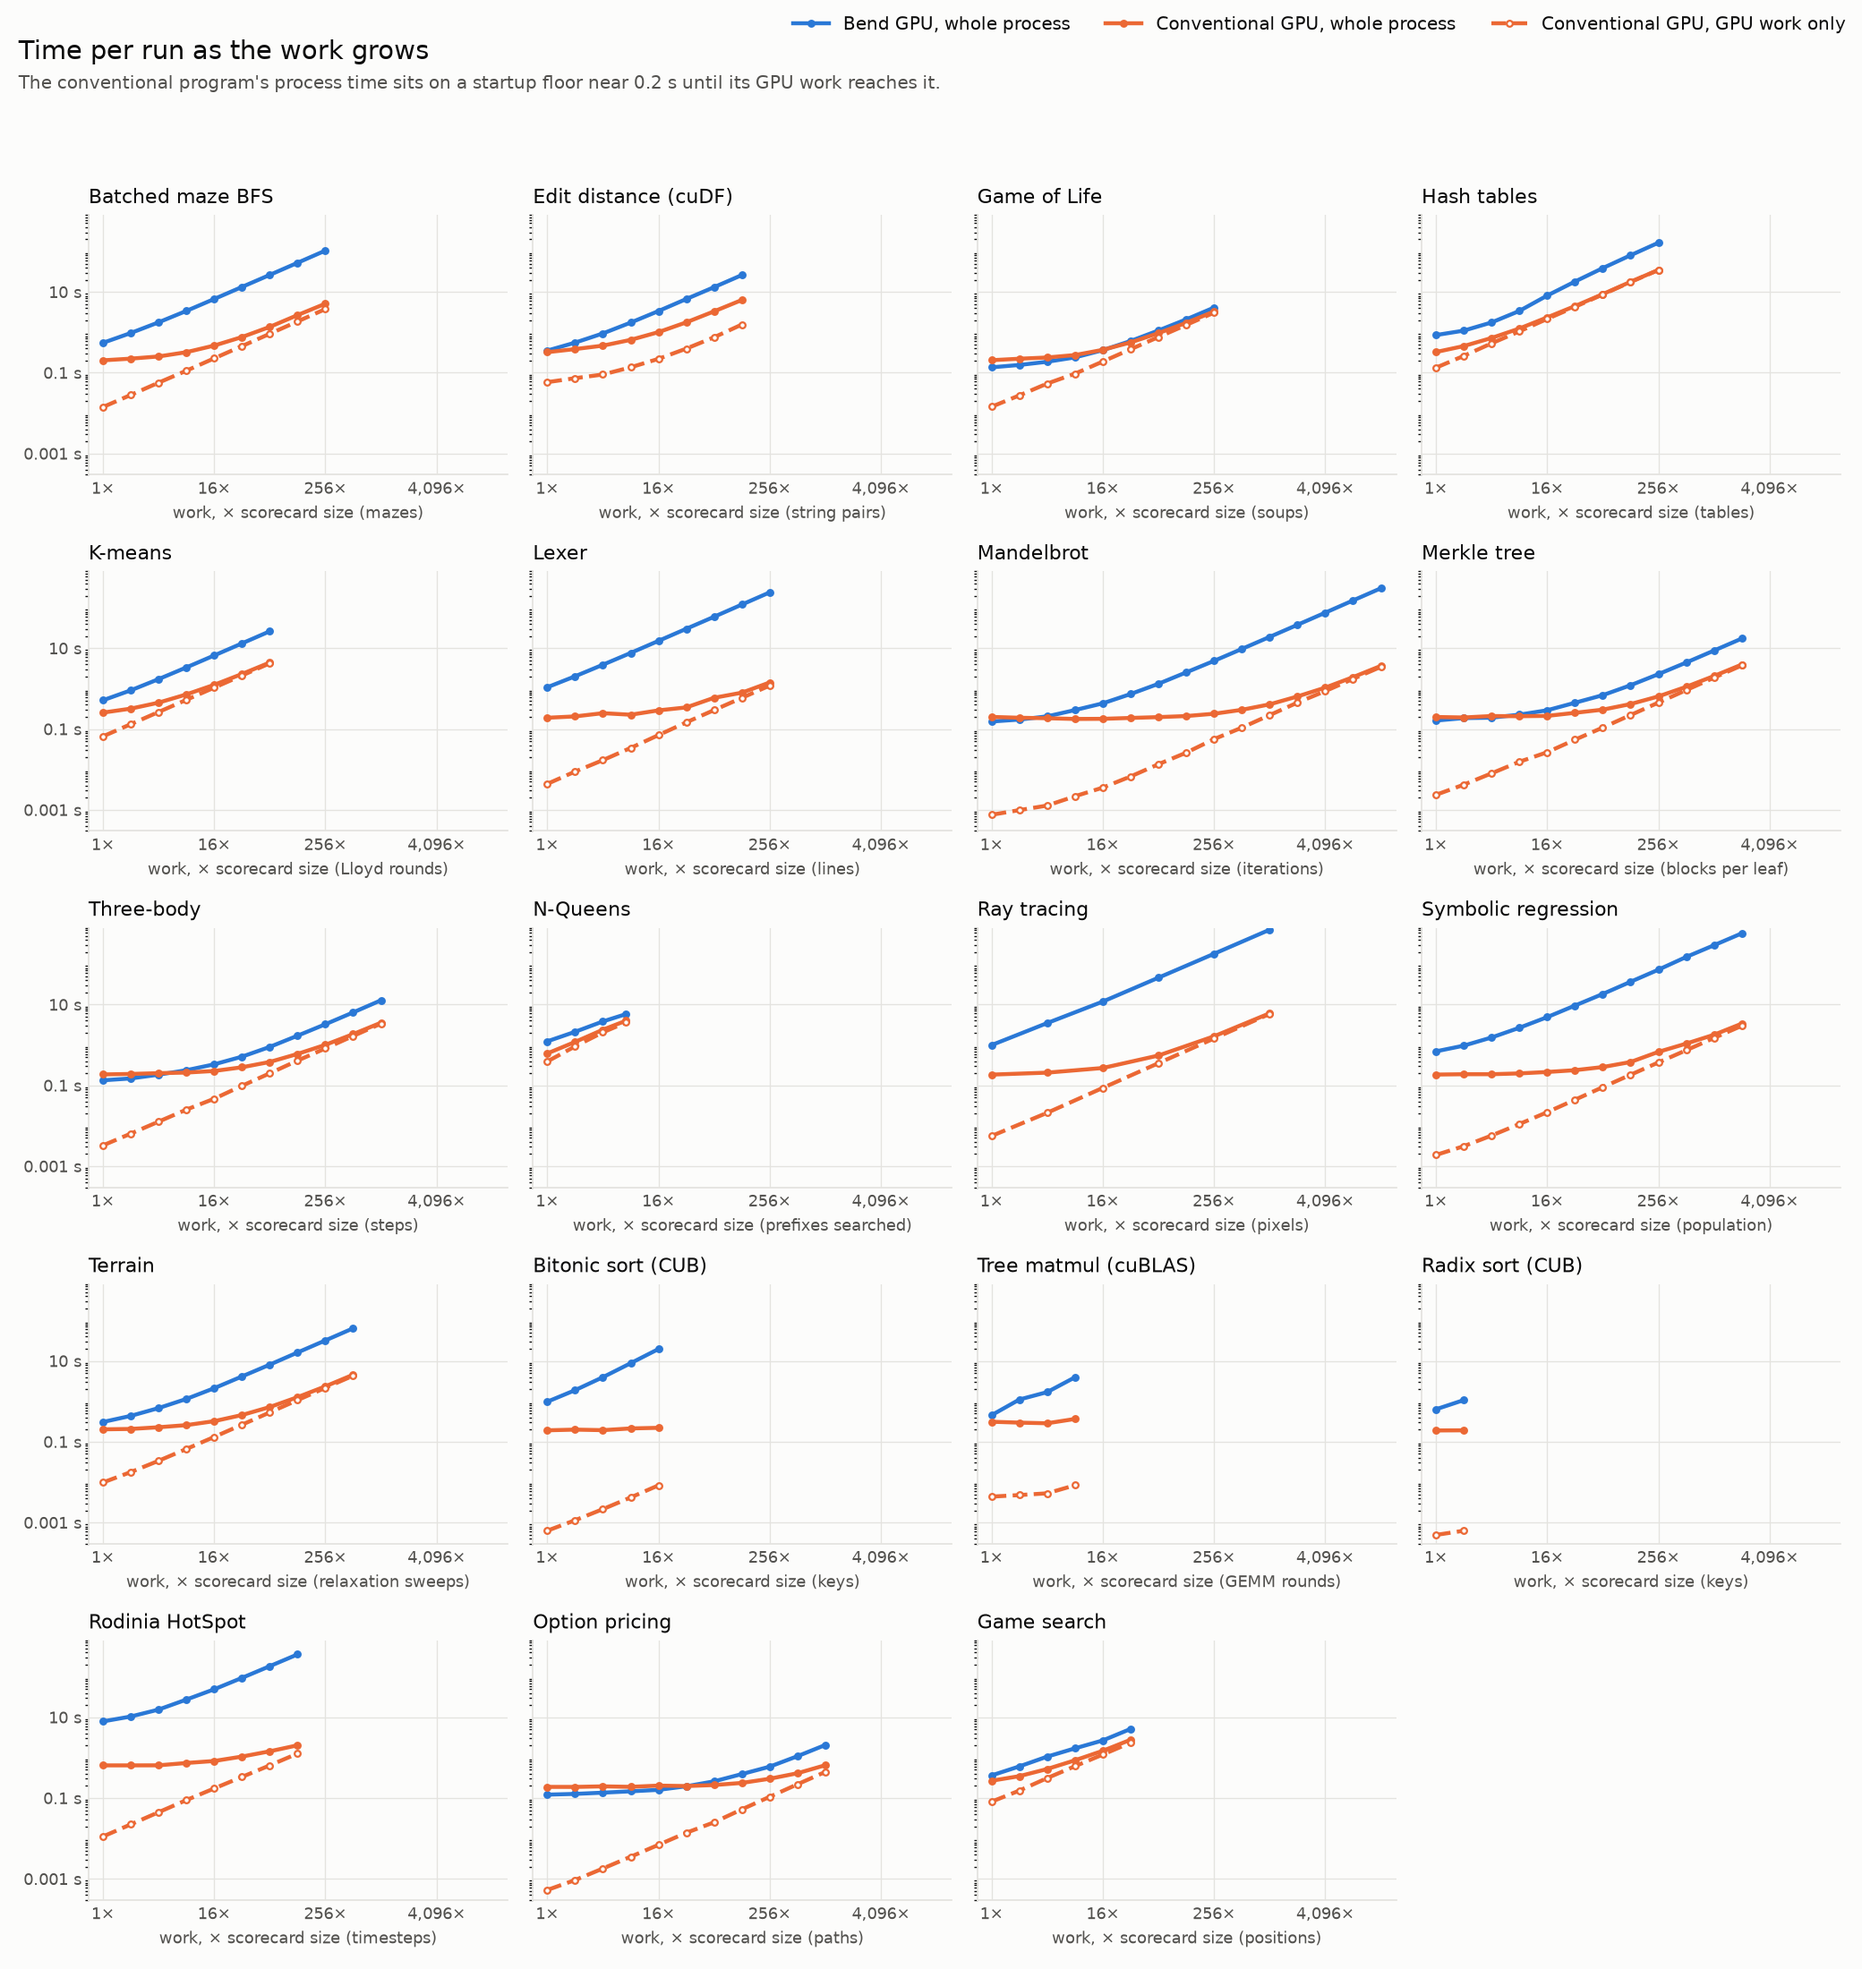
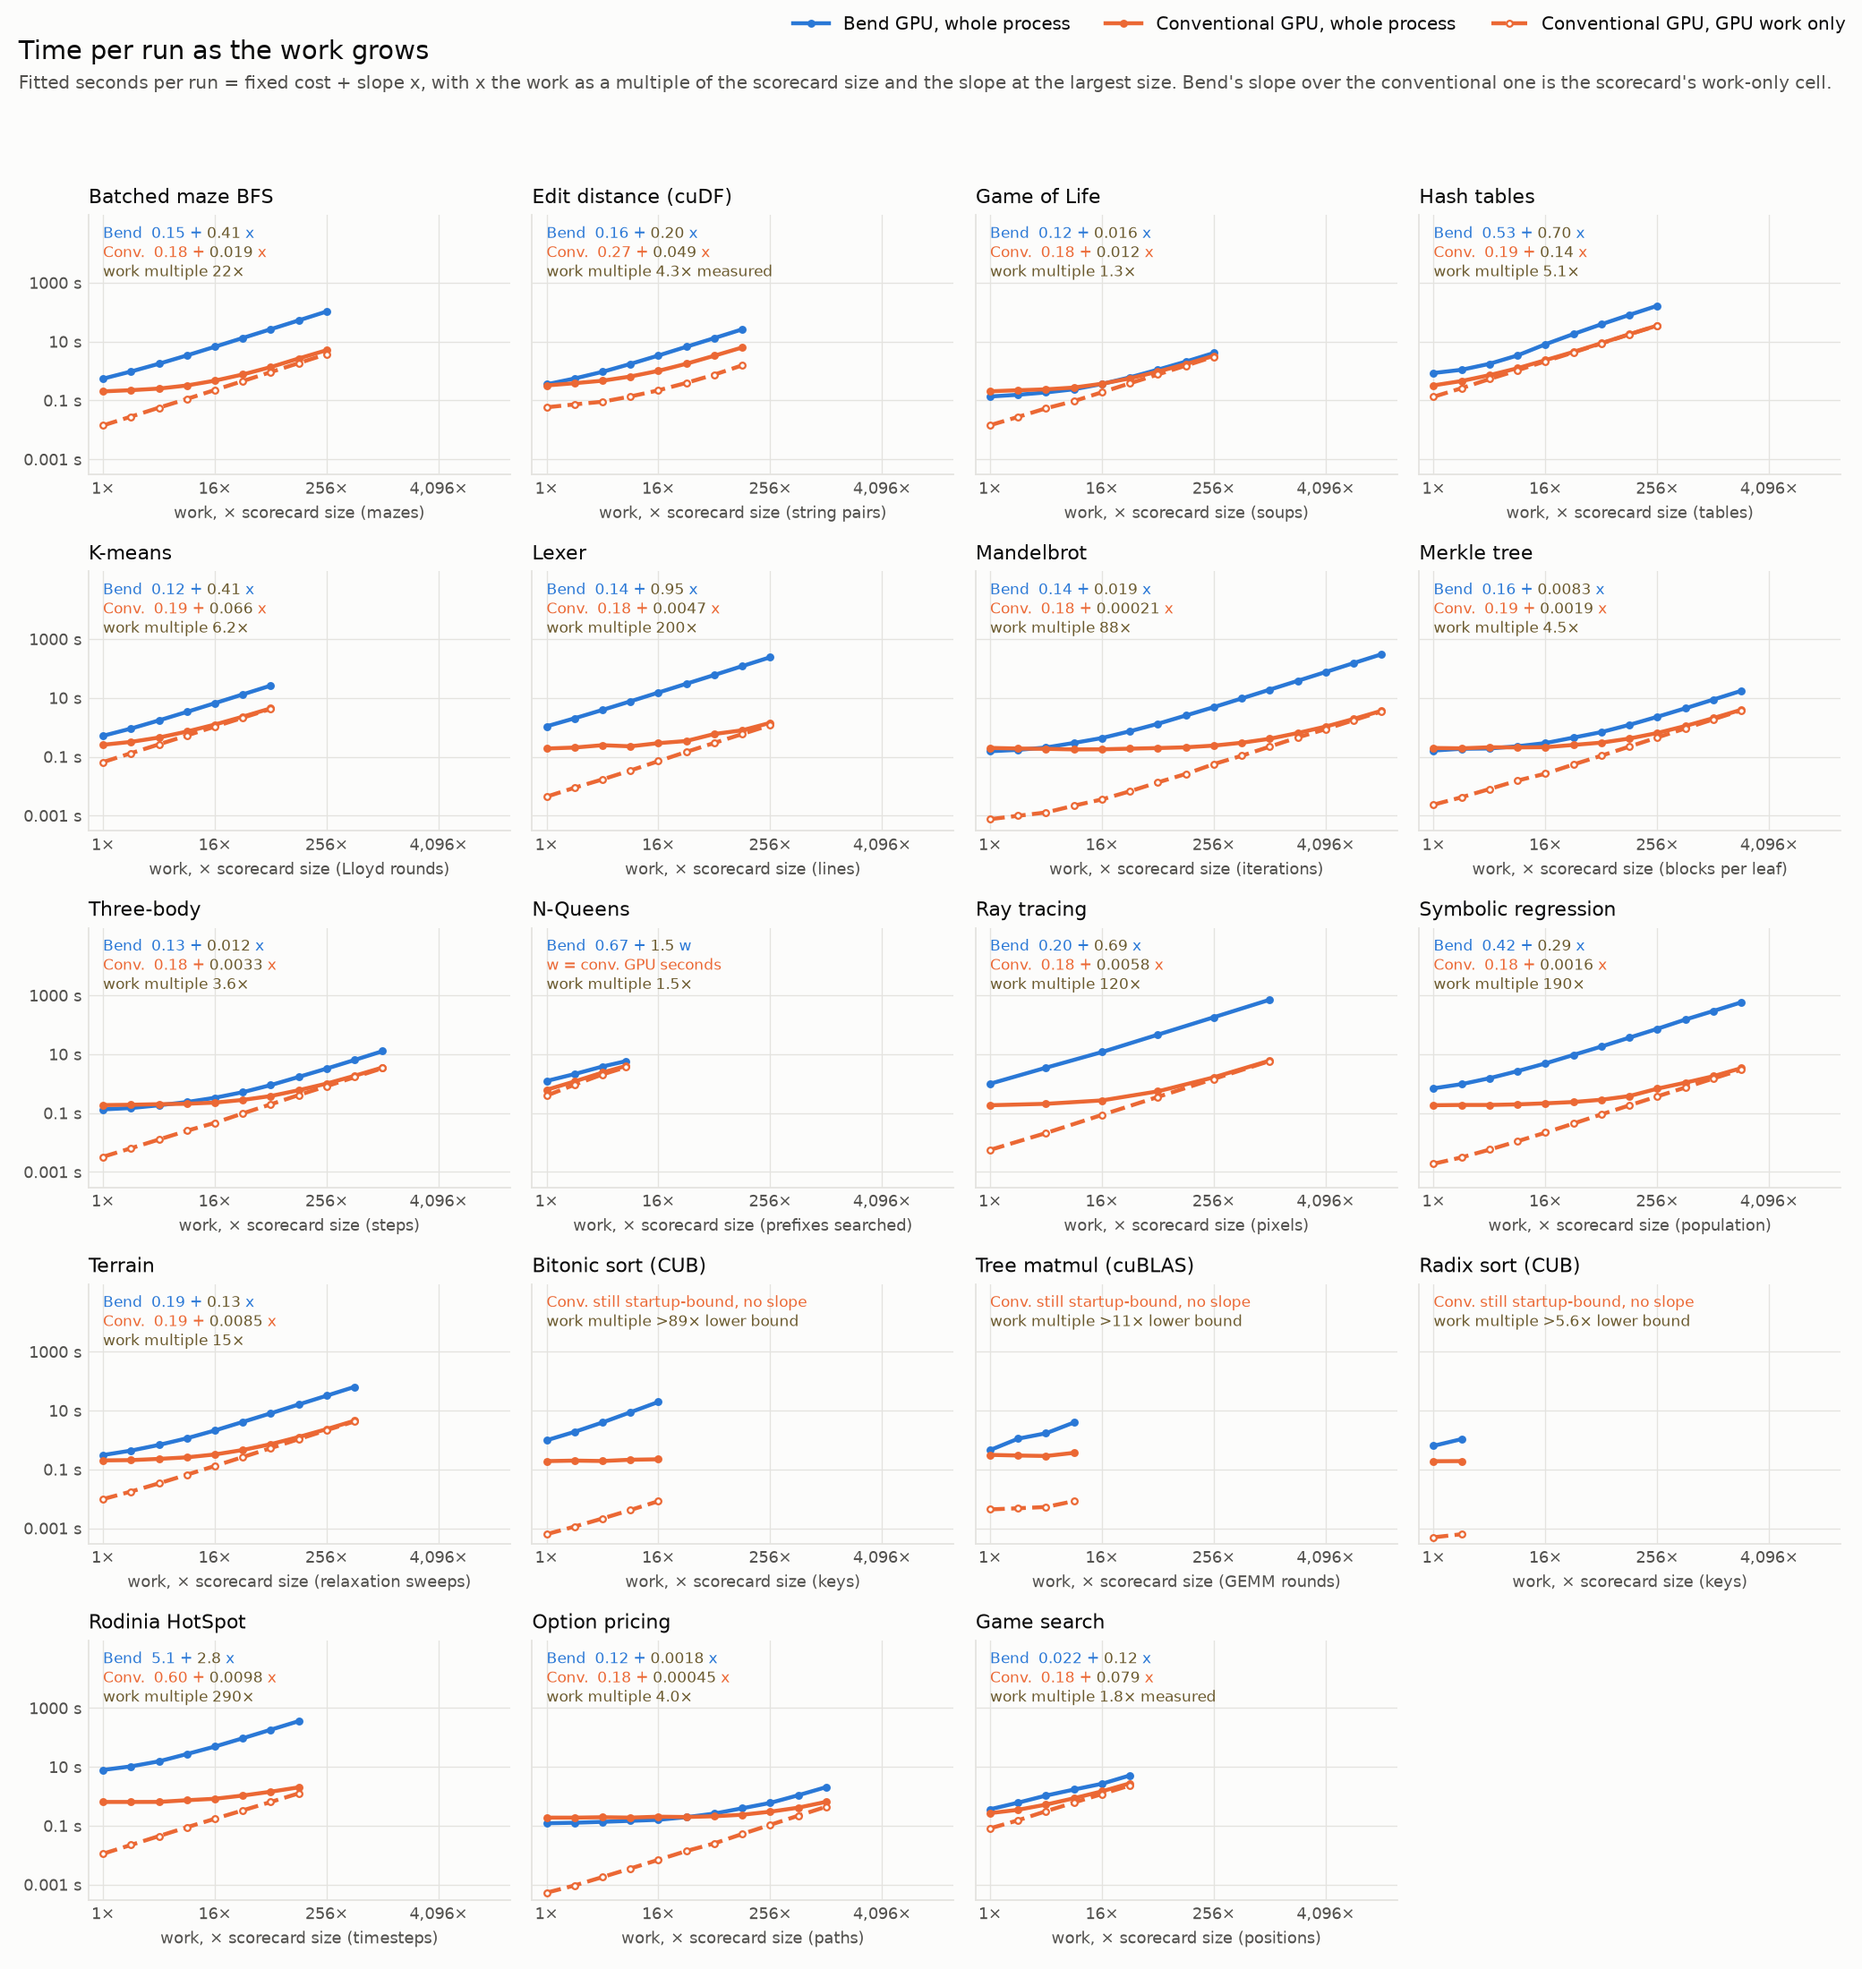
Show each program's fitted time on the times chart
Each panel of times.png lists Bend's and the conventional program's fitted
seconds per run as fixed cost + slope x, with the slope at the largest size
in the scorecard's work-only color, then the scorecard's work-only value
("work multiple"). N-Queens shows its fit against the conventional
program's GPU seconds w, since it grows along two knobs; the library panels
say the conventional program is still startup-bound, so their value is a
lower bound. Panels gain headroom for the labels. No values change.

diff --git a/scaling_charts.py b/scaling_charts.py
@@ -9,6 +9,7 @@ import sys
 import matplotlib
 matplotlib.use('Agg')
 import matplotlib.pyplot as plt  # noqa: E402
+from matplotlib.offsetbox import AnchoredOffsetbox, HPacker, TextArea, VPacker  # noqa: E402
 from matplotlib.ticker import FuncFormatter, NullFormatter  # noqa: E402
 
 import scaling_fit  # noqa: E402
@@ -20,6 +21,7 @@ OUT = Path(sys.argv[1]) if len(sys.argv) > 1 else ROOT / 'benchmarks/startup-sca
 # series share its hue (solid: whole process, dashed: GPU work only).
 SURFACE, INK, INK2, GRID, REF = '#fcfcfb', '#0b0b0b', '#52514e', '#e4e3df', '#8a8984'
 BLUE, ORANGE = '#2a78d6', '#eb6834'
+WORK = '#6b5a2e'  # the scorecard's GPU work-only column
 
 # Scorecard order; title and knob per workload. Bend's 4 GB heap caps the library comparisons.
 WORKLOADS = [
@@ -141,7 +143,40 @@ def share_chart(data, path):
     plt.close(fig)
 
 
-def times_chart(data, path):
+def figures(value):
+    """Two significant figures, without exponent notation."""
+    return f"{float(f'{value:.2g}'):.{max(0, 1 - math.floor(math.log10(abs(value))))}f}"
+
+
+def formula(ax, lines, cell):
+    """Each program's fitted time as fixed cost + slope times the work (the slope, whose ratio is the
+    work-only column, in the column's color), notes where a panel has no slope, then the scorecard cell."""
+    small = lambda text, color: TextArea(text, textprops=dict(color=color, fontsize=7.5))
+    rows = []
+    for line in lines:
+        if len(line) == 2:  # a note
+            rows.append(small(*line))
+            continue
+        label, color, fixed, slope, var = line
+        rows.append(HPacker(children=[small(f'{label}  {figures(fixed)} + ', color), small(figures(slope), WORK),
+                                      small(f' {var}', color)], pad=0, sep=0))
+    rows.append(small(f'work multiple {cell}', WORK))
+    box = AnchoredOffsetbox(loc='upper left', child=VPacker(children=rows, pad=0, sep=2), pad=0.3, frameon=False,
+                            bbox_to_anchor=(0.02, 0.98), bbox_transform=ax.transAxes, borderpad=0)
+    ax.add_artist(box)
+
+
+def fitted(name, ps):
+    """Fixed cost (a + b*x^c) and slope at the largest size (general curve) for Bend and the conventional program."""
+    work = dict((n, w) for n, _, w in scaling_fit.WORKLOADS).get(name) or (lambda k: k)
+    x = [work(p['multiplier']) for p in ps]
+    out = []
+    for times in ([p['bend_seconds'] for p in ps], scaling_fit.conventional_time(ps, work)):
+        out.append((scaling_fit.fit(x, times)[0], scaling_fit.curve(x, times)['marginal'](x[-1])))
+    return out
+
+
+def times_chart(data, labels, path):
     """All workloads: Bend and conventional process time with the conventional GPU work, on one scale."""
     fig, axes = panels()
     series = (('bend_seconds', 'Bend GPU, whole process', BLUE, '-'),
@@ -155,19 +190,22 @@ def times_chart(data, path):
             for key, label, color, dash in series:
                 ax.plot(xs, [p[key] for p in ps], color=color, linewidth=2, linestyle=dash, marker='o', markersize=3,
                         label=label, zorder=3, markerfacecolor=SURFACE if dash == '--' else color)
+            if name in labels:
+                formula(ax, *labels[name])
         else:
             ax.text(0.5, 0.5, 'pending', transform=ax.transAxes, ha='center', color=INK2, fontsize=9)
         axis_work(ax, knob)
         ax.set_yscale('log')
-        ax.set_ylim(3e-4, 800)
-        ax.set_yticks([0.001, 0.1, 10])
+        ax.set_ylim(3e-4, 2e5)
+        ax.set_yticks([0.001, 0.1, 10, 1000])
         ax.yaxis.set_major_formatter(FuncFormatter(lambda v, _: f'{v:g} s'))
         ax.yaxis.set_minor_formatter(NullFormatter())
         ax.set_title(title, fontsize=10, color=INK, loc='left')
     handles, labels = axes.flat[2].get_legend_handles_labels()
     fig.legend(handles, labels, loc='upper right', ncol=3, frameon=False, fontsize=9, labelcolor=INK)
     fig.suptitle('Time per run as the work grows', fontsize=13, color=INK, x=0.01, ha='left')
-    fig.text(0.01, 0.955, "The conventional program's process time sits on a startup floor near 0.2 s until its GPU work reaches it.",
+    fig.text(0.01, 0.955, "Fitted seconds per run = fixed cost + slope x, with x the work as a multiple of the scorecard size and the slope "
+             "at the largest size. Bend's slope over the conventional one is the scorecard's work-only cell.",
              fontsize=9, color=INK2)
     fig.tight_layout(rect=(0, 0, 1, 0.94))
     fig.savefig(path, dpi=160, facecolor=SURFACE)
@@ -179,9 +217,24 @@ def main():
     data = scaling_fit.points()
     rows = [scaling_fit.analyse(n, t, w, data[n]) for n, t, w in scaling_fit.WORKLOADS if n in data] + [scaling_fit.queens_row(data)]
     fits = {r['name']: r['K'] for r in rows if r}
+    # per panel: fitted lines, then the scorecard's work-only cell as work_only.py writes it
+    labels = {}
+    for n, _, _ in scaling_fit.WORKLOADS:
+        if n in data:
+            (ab, sb), (ac, sc) = fitted(n, data[n])
+            labels[n] = ([('Bend', BLUE, ab, sb, 'x'), ('Conv.', ORANGE, ac, sc, 'x')],
+                         scaling_fit.times(fits[n]) + (' measured' if n in scaling_fit.REPORTED else ''))
+    queens = scaling_fit.queens_row(data)
+    if queens:  # two knobs, so Bend is fitted against the conventional program's GPU seconds w
+        labels['queens'] = ([('Bend', BLUE, queens['a_bend'], queens['K'], 'w'), ('w = conv. GPU seconds', ORANGE)],
+                            scaling_fit.times(queens['K']))
+    for n, _ in scaling_fit.LOWER_BOUND:
+        if n in data:
+            labels[n] = ([('Conv. still startup-bound, no slope', ORANGE)],
+                         '>' + scaling_fit.times(data[n][-1]['bend_over_cuda']) + ' lower bound')
     ratio_chart(data, fits, OUT / 'ratio.png')
     share_chart(data, OUT / 'device-share.png')
-    times_chart(data, OUT / 'times.png')
+    times_chart(data, labels, OUT / 'times.png')
     missing = [n for n, _, _ in WORKLOADS if n not in data]
     print('wrote', OUT, 'missing:', missing)
 
